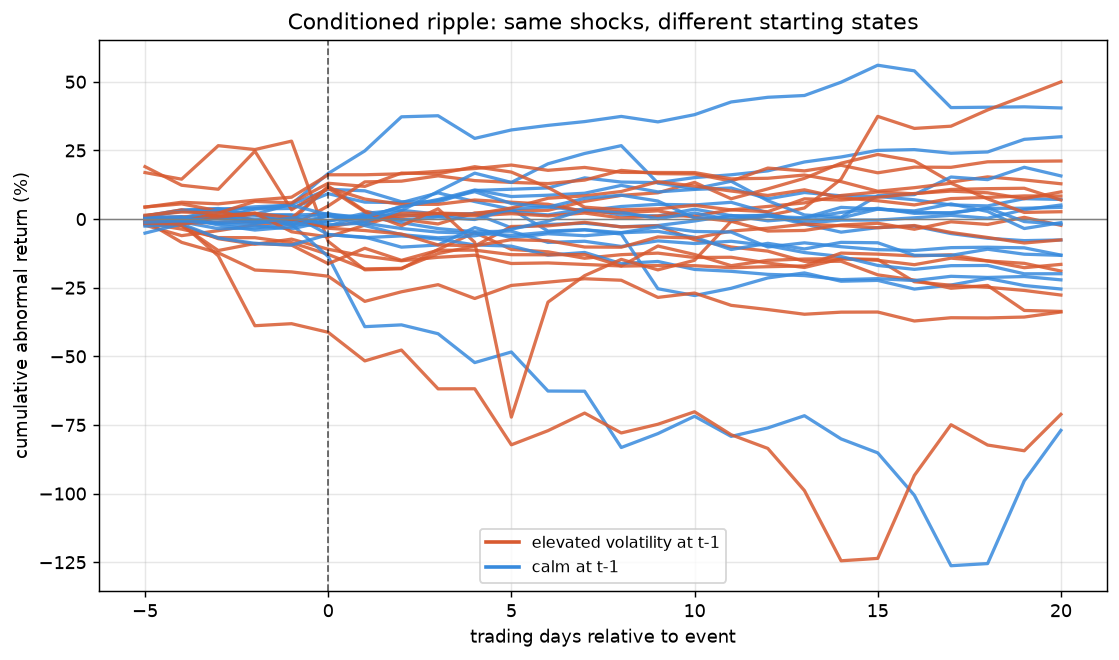
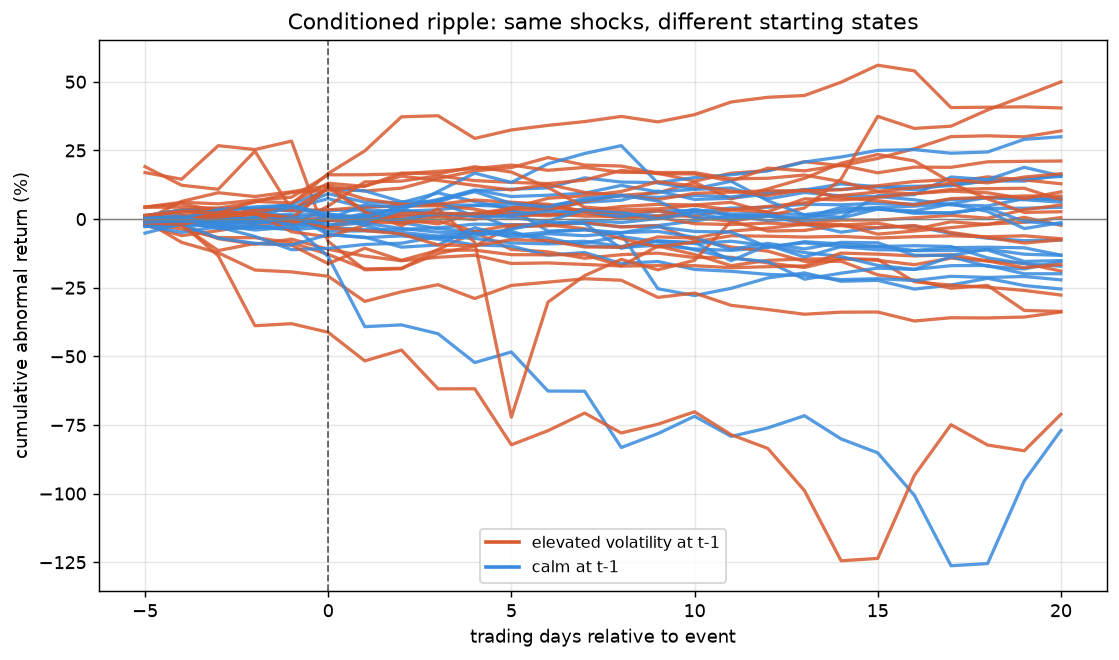
H5 GPR conditioning: exploratory, two-sided, per registered H5
Per the pre-registered H5 (BRIEF_SKELETON.md, committed 7427e90, before this run),
h5_gpr.py runs the GPR conditioning as an EXPLORATORY, two-sided, hypothesis-
generating analysis -- NOT confirmatory. It reuses inference.py's machinery
(same 42-event sample, clustering, standardized-CAR) import-only; the only new
ingredient is the conditioning variable (full-history GPR percentile at t-1, no
lookahead). Reports raw + standardized |CAR+20| difference (baseline/clustered/
no-outlier) and a TWO-SIDED permutation p (10,000 shuffles, seeded, byte-
reproducible). data/h5_results.txt opens by stating H5 is exploratory/two-sided,
and an enforced language check guarantees no verdict/one-sided words
(holds/fails/confirms/predicted) appear.

Observed (exploratory, not a claim): high-GPR shocks showed smaller |CAR+20|
(clustered -1.6pp, two-sided p=0.77) -- i.e. no signal; a question for a future
confirmatory test, nothing settled. The +5pp rule does not apply to H5.

Also adds GPR percentile as DESCRIPTIVE-only context to engine_read/scenario (and
their widgets): H5 registered no direction, so it is structurally fenced -- it is
never in the amplifier-bearing hypotheses loop and carries no amplifier field
(verified). event_study/robustness/conditioned_study/inference untouched.

diff --git a/src/h5_gpr.py b/src/h5_gpr.py
@@ -1,0 +1,220 @@
+"""
+h5_gpr.py -- H5: GPR conditioning, EXPLORATORY and TWO-SIDED (per registered H5).
+
+WHAT "EXPLORATORY" MEANS HERE (and why it is different from H1-H3):
+H1-H3 were CONFIRMATORY: a direction and a +5pp decision rule were fixed before
+any number was seen, so a result there earns a yes/no. H5 is different. It was
+registered (2026-07-23, before computation) with NO direction -- the analyst's
+recorded position was "not sure", because two mechanisms pull opposite ways
+(high geopolitical tension -> fragility/amplification, vs. high tension already
+priced in -> dampening). When you have not committed to a direction, you may not
+later claim a one-sided result "worked". So this run is HYPOTHESIS-GENERATING: it
+reports the direction OBSERVED and a TWO-SIDED permutation p (which asks how often
+chance produces a gap this big in EITHER direction), and it deliberately does not
+apply the +5pp rule. It generates a question for a future confirmatory test; it
+settles nothing.
+
+Everything else mirrors the established pipeline exactly (import-only reuse, no
+forks): the same 42-event sample, the same clustering, the same standardized-CAR
+machinery from inference.py. The only new ingredient is the conditioning variable
+-- the GPR percentile at t-1.
+
+Run:  python3 src/h5_gpr.py
+"""
+
+import re
+import sqlite3
+from pathlib import Path
+
+import numpy as np
+import pandas as pd
+
+# Import only -- these are NOT modified.
+import inference
+from inference import (build_frame, samples, split_amp, directional_amp,
+                       N_PERM, PERMUTATION_SEED, CAR20_LEN)
+
+ROOT = Path(__file__).resolve().parent.parent
+DB = ROOT / "data" / "oil.db"
+OUT = ROOT / "data" / "h5_results.txt"
+
+# Verdict/one-sided language is forbidden in an exploratory report. Enforced below.
+BANNED_WORDS = ("holds", "fails", "confirms", "confirm", "predicted", "predict")
+
+
+def gpr_series(conn):
+    """The daily GPR headline index as a date-indexed series."""
+    g = pd.read_sql(
+        "SELECT obs_date, value FROM observations WHERE series_id = 'gpr.GPRD' "
+        "ORDER BY obs_date", conn)
+    if g.empty:
+        return pd.Series(dtype=float)
+    g["obs_date"] = pd.to_datetime(g["obs_date"])
+    return g.set_index("obs_date")["value"].sort_index()
+
+
+def full_history_percentile(all_vals, v):
+    """Where v ranks among every GPR day (0-100). None/NaN -> NaN."""
+    if v is None or (isinstance(v, float) and np.isnan(v)):
+        return np.nan
+    return float((all_vals <= v).mean() * 100)
+
+
+def attach_gpr_pct(df, s):
+    """Add a gpr_pct column: the full-history percentile of the GPR value at t-1.
+    Point-in-time -- the value is the last GPR reading STRICTLY BEFORE the event,
+    so the event's own GPR spike can never leak into its conditioning variable."""
+    all_vals = s.to_numpy()
+    pcts = []
+    for _, r in df.iterrows():
+        t_minus_1 = pd.Timestamp(r["date"]) - pd.Timedelta(days=1)
+        v = s.asof(t_minus_1)
+        pcts.append(full_history_percentile(all_vals, None if pd.isna(v) else float(v)))
+    df = df.copy()
+    df["gpr_pct"] = pcts
+    return df
+
+
+def two_sided_permutation(mags, states, n=N_PERM, seed=PERMUTATION_SEED):
+    """Two-sided permutation p: hold |CAR| fixed, shuffle the GPR labels, and count
+    how often the |high - low| gap is at least as large as observed -- in EITHER
+    direction (that is what 'two-sided' means, and it is the honest test when no
+    direction was registered). Seeded, so two runs are identical.
+
+    Reuses inference.directional_amp with sign=+1 to get (high - low); we take the
+    absolute value for the two-sided comparison."""
+    med = np.median(states)
+    obs = directional_amp(mags, states, med, 1)          # high - low
+    if np.isnan(obs):
+        return None, obs
+    obs_abs = abs(obs)
+    rng = np.random.default_rng(seed)
+    count = 0
+    for _ in range(n):
+        a = directional_amp(mags, rng.permutation(states), med, 1)
+        if not np.isnan(a) and abs(a) >= obs_abs:
+            count += 1
+    return count / n, obs
+
+
+def gpr_context():
+    """DESCRIPTIVE ONLY -- today's GPR full-history percentile, for the engine-read
+    and scenario context. H5 has NO registered direction, so this can NEVER be an
+    amplifier; it is a plain readout, fenced off exactly like H3."""
+    conn = sqlite3.connect(DB)
+    s = gpr_series(conn)
+    conn.close()
+    if s.empty:
+        return {"gpr_pct": None, "gpr_value": None, "as_of": None}
+    vals = s.to_numpy()
+    latest = float(vals[-1])
+    return {"gpr_pct": round(full_history_percentile(vals, latest), 1),
+            "gpr_value": round(latest, 1),
+            "as_of": s.index[-1].date().isoformat()}
+
+
+def _enforce_language(text):
+    """Guarantee no verdict / one-sided language slipped into an exploratory report."""
+    hits = [w for w in BANNED_WORDS if re.search(rf"\b{w}\b", text, re.IGNORECASE)]
+    if hits:
+        raise SystemExit(f"LANGUAGE CHECK FAILED: exploratory report contains "
+                         f"forbidden verdict words {hits}. Fix the template.")
+
+
+def main():
+    conn = sqlite3.connect(DB)
+    df, skipped = build_frame(conn)          # SAME sample as inference/robustness
+    s = gpr_series(conn)
+    conn.close()
+
+    if s.empty:
+        print("STOP: no gpr.GPRD data in the database. Run src/fetch_gpr.py first.")
+        return
+
+    df = attach_gpr_pct(df, s)
+    clustered_n = df.groupby("cluster").ngroups
+
+    lines = []
+    def w(x=""):
+        lines.append(x)
+
+    bar = "#" * 80
+    w(bar)
+    w("H5 -- GPR CONDITIONING: EXPLORATORY, TWO-SIDED")
+    w("Per registered H5 (BRIEF_SKELETON.md, registered 2026-07-23, before computation).")
+    w("H5 was registered with NO direction ('not sure'). This is a HYPOTHESIS-")
+    w("GENERATING run: it states the direction OBSERVED and a TWO-SIDED permutation")
+    w("p. The +5pp directional rule does not apply to H5, and nothing here is a")
+    w("verdict -- it is an exploratory result that raises a question for a future")
+    w("confirmatory test, nothing more.")
+    w(bar)
+    w(f"Events analysed: {len(df)}   Clustered episodes: {clustered_n}")
+    w("Conditioning variable: full-history percentile of the daily GPR index at t-1")
+    w("(the last GPR reading strictly before the event -- no lookahead).")
+    w("Split: high vs low at the event-sample median GPR percentile.")
+    w("Standardization + clustering: identical to inference.py / robustness.py.")
+    if skipped:
+        w(f"NOTE: {len(skipped)} event(s) had no valid estimation-window sigma and "
+          f"were excluded: {', '.join(skipped)}")
+    w("")
+
+    # --- RAW magnitude amplification across the three samples ---
+    w("RAW |CAR+20| difference (high-GPR bucket minus low-GPR bucket):")
+    for label, samp in samples(df):
+        r = split_amp(samp, "gpr_pct", "abs_car_raw")
+        w(f"    {label:<24} " + ("too few events" if r is None
+                                  else f"n={r['n']:<2}  {r['amp']:+.1f} pp"))
+
+    # --- STANDARDIZED magnitude amplification (sigma units) ---
+    w(f"STANDARDIZED |CAR+20 / (sigma*sqrt({CAR20_LEN}))| difference (high - low):")
+    for label, samp in samples(df):
+        r = split_amp(samp, "gpr_pct", "abs_car_std")
+        w(f"    {label:<24} " + ("too few events" if r is None
+                                  else f"n={r['n']:<2}  {r['amp'] / 100:+.2f} sigma"))
+
+    # --- Two-sided permutation on the clustered sample ---
+    clustered = samples(df)[1][1]
+    sub = clustered[clustered["gpr_pct"].notna()]
+    states = sub["gpr_pct"].to_numpy(dtype=float)
+    w(f"TWO-SIDED PERMUTATION (clustered, N={N_PERM:,}, seed={PERMUTATION_SEED}):")
+    perm = {}
+    for mag_col, unit, scale in [("abs_car_raw", "pp", 1.0),
+                                 ("abs_car_std", "sigma", 1.0)]:
+        mags = sub[mag_col].to_numpy(dtype=float)
+        p, obs = two_sided_permutation(mags, states)
+        obs_show = obs if mag_col == "abs_car_raw" else obs / 100
+        perm[mag_col] = (p, obs_show)
+        if p is None:
+            w(f"    {mag_col.split('_')[-1]:<12} could not be computed")
+        else:
+            w(f"    {mag_col.split('_')[-1]:<12} observed gap {abs(obs_show):.2f} "
+              f"{unit:<6} two-sided p = {p:.4f}")
+    w("")
+
+    # --- Direction OBSERVED (exploratory language only) ---
+    clus_raw = split_amp(clustered, "gpr_pct", "abs_car_raw")
+    w("=" * 80)
+    w("DIRECTION OBSERVED (exploratory -- not a claim, no direction was registered)")
+    w("=" * 80)
+    if clus_raw is None:
+        w("  Too few clustered events to describe a direction honestly.")
+    else:
+        amp = clus_raw["amp"]
+        bigger = "larger" if amp > 0 else "smaller"
+        p_raw = perm["abs_car_raw"][0]
+        w(f"  In this sample, shocks arriving at high GPR showed {bigger} |CAR+20|")
+        w(f"  than shocks arriving at low GPR (clustered gap {amp:+.1f} pp, two-sided")
+        w(f"  permutation p = {p_raw:.4f}). This is a direction OBSERVED, offered as a")
+        w(f"  hypothesis to be tested confirmatorily in future -- it is not evidence")
+        w(f"  for or against any registered direction, because H5 registered none.")
+    w("")
+
+    text = "\n".join(lines)
+    _enforce_language(text)          # hard stop if any verdict word slipped in
+    OUT.write_text(text + "\n")
+    print(text)
+    print(f"\nWrote {OUT}   (language check passed: no verdict/one-sided words)")
+
+
+if __name__ == "__main__":
+    main()

diff --git a/src/scenario.py b/src/scenario.py
@@ -42,6 +42,7 @@ from robustness import REGISTERED
 from event_study import load_returns, HORIZONS
 from derive_signals import load_wide, build_signals
 from load_events import VALID_TYPES
+import h5_gpr   # DESCRIPTIVE-only GPR context (H5 has no direction, never an amplifier)
 
 ROOT = Path(__file__).resolve().parent.parent
 DB = ROOT / "data" / "oil.db"
@@ -126,7 +127,9 @@ def build_playbook():
             base["car20_max"] = round(grp["car20"].max() * 100, 1)
         cards.append({"type": etype, "n": n, "analogs": analogs, "base": base})
     cards.sort(key=lambda c: c["n"], reverse=True)   # best-evidenced first
-    return {"as_of": as_of, "conditioning": conditioning, "cards": cards}
+    return {"as_of": as_of, "conditioning": conditioning, "cards": cards,
+            # H5 GPR: descriptive readout only; can never be an amplifier.
+            "gpr_context": h5_gpr.gpr_context()}
 
 
 def conditioning_summary(conditioning):
@@ -144,7 +147,7 @@ def conditioning_summary(conditioning):
 
 # ---------------------------------------------------------------- console output
 
-def print_conditioning(conditioning, as_of):
+def print_conditioning(conditioning, as_of, gpr=None):
     print(f"TODAY'S CONDITIONING (point-in-time, as of {as_of})")
     for c in conditioning:
         line = f"  {c['hid']} {c['label']:<24}{c['amplifier']:<7}"
@@ -156,9 +159,13 @@ def print_conditioning(conditioning, as_of):
         if c["amplifier"] == "FAILED":
             line += "  [fenced off -- failed pre-registration; never applied]"
         print(line)
+    if gpr and gpr.get("gpr_pct") is not None:
+        print(f"  H5 GPR (descriptive)      readout GPR percentile today "
+              f"{gpr['gpr_pct']} (index {gpr['gpr_value']})  "
+              f"[no registered direction -- never an amplifier]")
 
 
-def print_card(card, conditioning, as_of):
+def print_card(card, conditioning, as_of, gpr=None):
     et, n, b = card["type"], card["n"], card["base"]
     print("=" * 76)
     print(f'SCENARIO -- {et}   "if an event of this type happened today"')
@@ -181,7 +188,7 @@ def print_card(card, conditioning, as_of):
     print(f"  >>> {n_flag(n)} <<<")
 
     print()
-    print_conditioning(conditioning, as_of)
+    print_conditioning(conditioning, as_of, gpr)
     print(f"\n{CAVEAT}")
 
 
@@ -202,6 +209,11 @@ def write_md(pb):
             extra = " -- fenced off (failed pre-registration)"
         L.append(f"- **{c['hid']} {c['label']}**: **{c['amplifier']}** "
                  f"(latest {c['latest']} vs median {c['median']}){extra}")
+    gc = pb.get("gpr_context") or {}
+    if gc.get("gpr_pct") is not None:
+        L.append(f"- **H5 GPR (descriptive)**: GPR percentile today "
+                 f"{gc['gpr_pct']} (index {gc['gpr_value']}) — no registered "
+                 f"direction, so **never an amplifier**, readout only")
     L.append("")
 
     for card in pb["cards"]:
@@ -229,7 +241,7 @@ def main():
 
     if args and args[0] == "--all":
         for card in pb["cards"]:
-            print_card(card, pb["conditioning"], pb["as_of"])
+            print_card(card, pb["conditioning"], pb["as_of"], pb.get("gpr_context"))
             print()
         write_md(pb)
         print(f"Wrote {MD_OUT}")
@@ -237,7 +249,7 @@ def main():
 
     if len(args) == 1 and args[0] in VALID_TYPES:
         card = next(c for c in pb["cards"] if c["type"] == args[0])
-        print_card(card, pb["conditioning"], pb["as_of"])
+        print_card(card, pb["conditioning"], pb["as_of"], pb.get("gpr_context"))
         return
 
     print("Usage: python3 src/scenario.py <event_type> | --all")

diff --git a/src/engine_read.py b/src/engine_read.py
@@ -40,6 +40,7 @@ import pandas as pd
 from robustness import assign_clusters, REGISTERED, CLUSTER_DAYS
 from event_study import load_returns, car_for_event, PRE, HORIZONS
 from derive_signals import load_wide, build_signals, MECHANISMS
+import h5_gpr   # for the DESCRIPTIVE-only GPR context (never an amplifier)
 
 ROOT = Path(__file__).resolve().parent.parent
 DB = ROOT / "data" / "oil.db"
@@ -203,6 +204,9 @@ def compute():
         "clustered_event_n": int(len(clustered)),
         "hypotheses": hyps,
         "base_rates": base_rates,
+        # H5 GPR: DESCRIPTIVE context only. H5 registered no direction, so it can
+        # never set an amplifier flag -- it is a plain readout, fenced like H3.
+        "gpr_context": h5_gpr.gpr_context(),
         "read": build_read(hyps),
         "note": ("Amplifier thresholds/base rates computed from data/oil.db with "
                  "robustness.py clustering; verdicts consumed from the pre-registered "
@@ -228,8 +232,15 @@ def write_md(r):
         lines.append(f"| {hid} | {h['label']} ({h['unit']}) | {latest} | {med} "
                      f"| {h['verdict']} | **{h['amplifier']}** |")
     lines += ["", "_H3 is shown for completeness only: it failed pre-registration "
-              "and is never used as an amplifier._", "",
-              "## Historical base rates — clustered mean CAR by event type", "",
+              "and is never used as an amplifier._", ""]
+    gc = r.get("gpr_context") or {}
+    if gc.get("gpr_pct") is not None:
+        lines += ["## Descriptive context (NOT an amplifier)", "",
+                  f"- **GPR (geopolitical risk) percentile today: {_ordinal(gc['gpr_pct'])}** "
+                  f"(index {gc['gpr_value']}, as of {gc['as_of']}). H5 registered no "
+                  f"direction, so GPR can never set an amplifier flag — this is a readout only.",
+                  ""]
+    lines += ["## Historical base rates — clustered mean CAR by event type", "",
               "| Event type | n | CAR+1 | CAR+5 | CAR+10 | CAR+20 |",
               "|------------|---|-------|-------|--------|--------|"]
     for b in r["base_rates"]:
@@ -244,6 +255,11 @@ def print_console(r):
     print(f"ENGINE READ  —  as of {r['as_of']}   (clustered n={r['clustered_event_n']})")
     print("=" * 72)
     print(f"\n  {r['read']}\n")
+    gc = r.get("gpr_context") or {}
+    if gc.get("gpr_pct") is not None:
+        print(f"  Descriptive context (NOT an amplifier): GPR percentile today "
+              f"{_ordinal(gc['gpr_pct'])} (index {gc['gpr_value']}, as of {gc['as_of']}). "
+              f"H5 registered no direction.\n")
     print("  AMPLIFIER STATUS (verdicts from the pre-registered record)")
     print("  " + "-" * 68)
     print(f"  {'hyp':<5}{'what':<22}{'latest':>10}{'median':>10}{'verdict':>9}{'amp':>8}")

diff --git a/src/backend.py b/src/backend.py
@@ -286,6 +286,15 @@ def engine_read():
             "verdict": h["verdict"],
             "amplifier": h["amplifier"],
         })
+    gc = r.get("gpr_context") or {}
+    if gc.get("gpr_pct") is not None:
+        rows.append({
+            "item": "H5 GPR (descriptive)",
+            "detail": f"GPR percentile today {gc['gpr_pct']} (index {gc['gpr_value']}, "
+                      f"as of {gc['as_of']})",
+            "verdict": "exploratory",
+            "amplifier": "n/a (no registered direction)",
+        })
     return rows
 
 
@@ -300,6 +309,9 @@ def scenario_playbook():
     except Exception as e:                     # never 500 the dashboard
         return [{"event_type": "(error)", "n": "", "note": str(e)[:100]}]
     today = scenario.conditioning_summary(pb["conditioning"])
+    gc = pb.get("gpr_context") or {}
+    if gc.get("gpr_pct") is not None:      # descriptive only -- never an amplifier
+        today += f" | GPR p{gc['gpr_pct']} (desc)"
     rows = []
     for c in pb["cards"]:
         b = c["base"]
